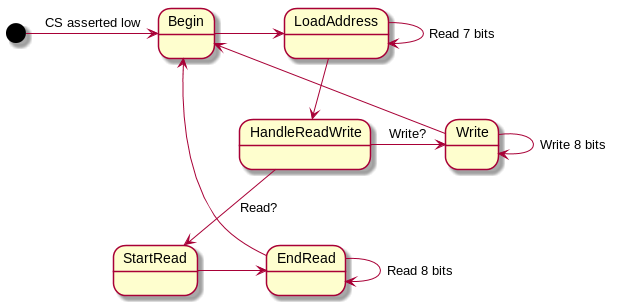
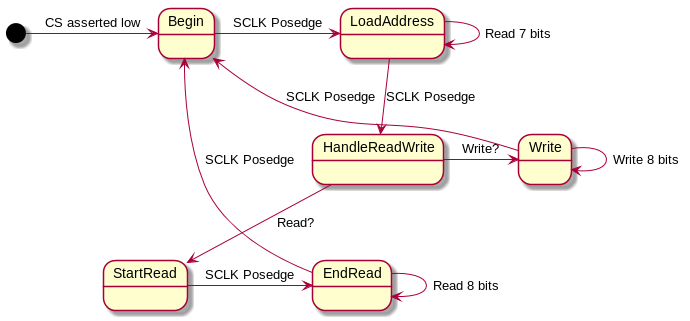
New state diagram

diff --git a/report.md b/report.md
@@ -63,5 +63,6 @@ To write, we enable dm_we for 8 serial clock cycles and then return to the begin
 
 # Challenges
 We had some issues as we forgot that the Sclk(Serial clock) has a delay of 4 clock cyles as it passed through the input conditioner.
+We also forgot that because data is presented on a negative edge, we need to wait a half-sclk cycle after receiving the read-write bit to begin checking the output of miso_pin.
 
 # Work Plan Reflection
